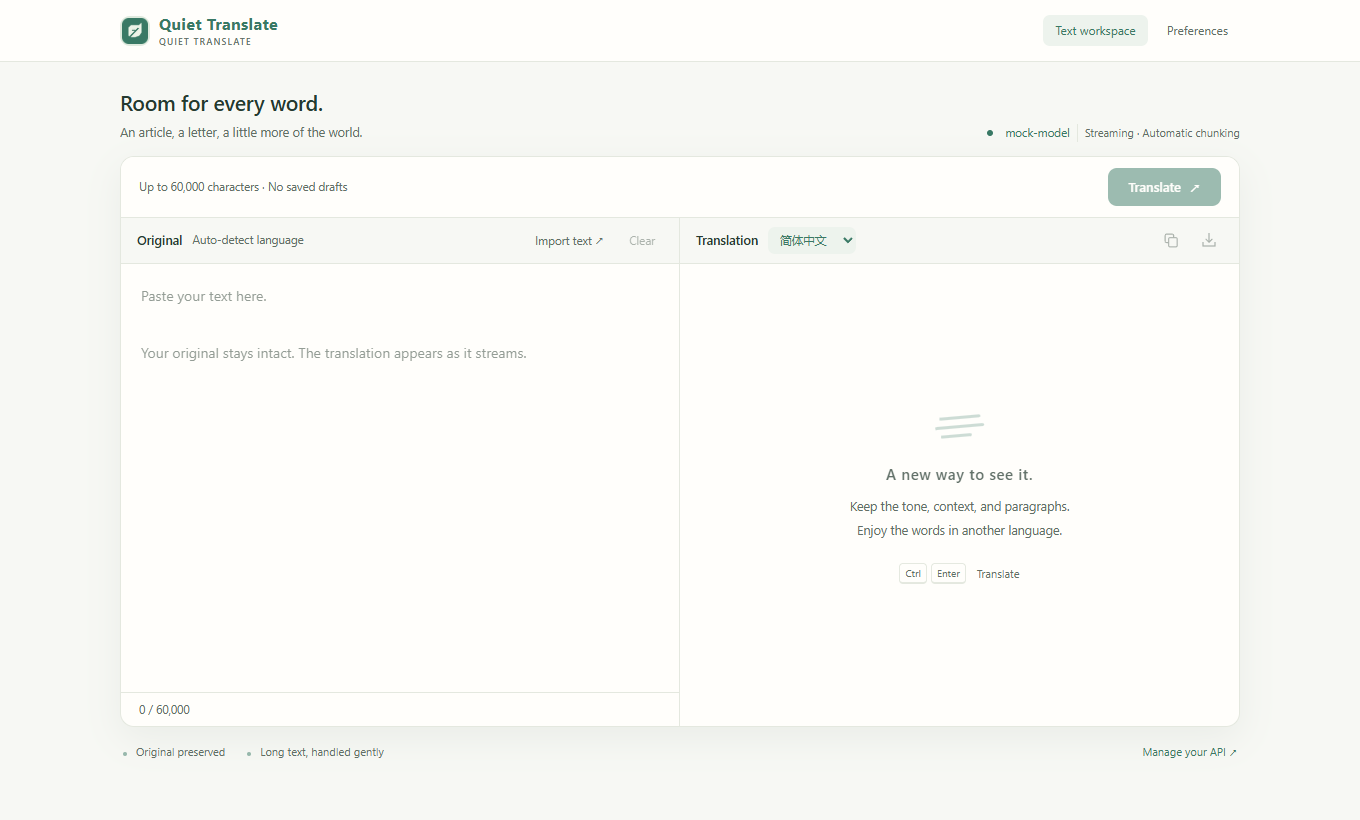
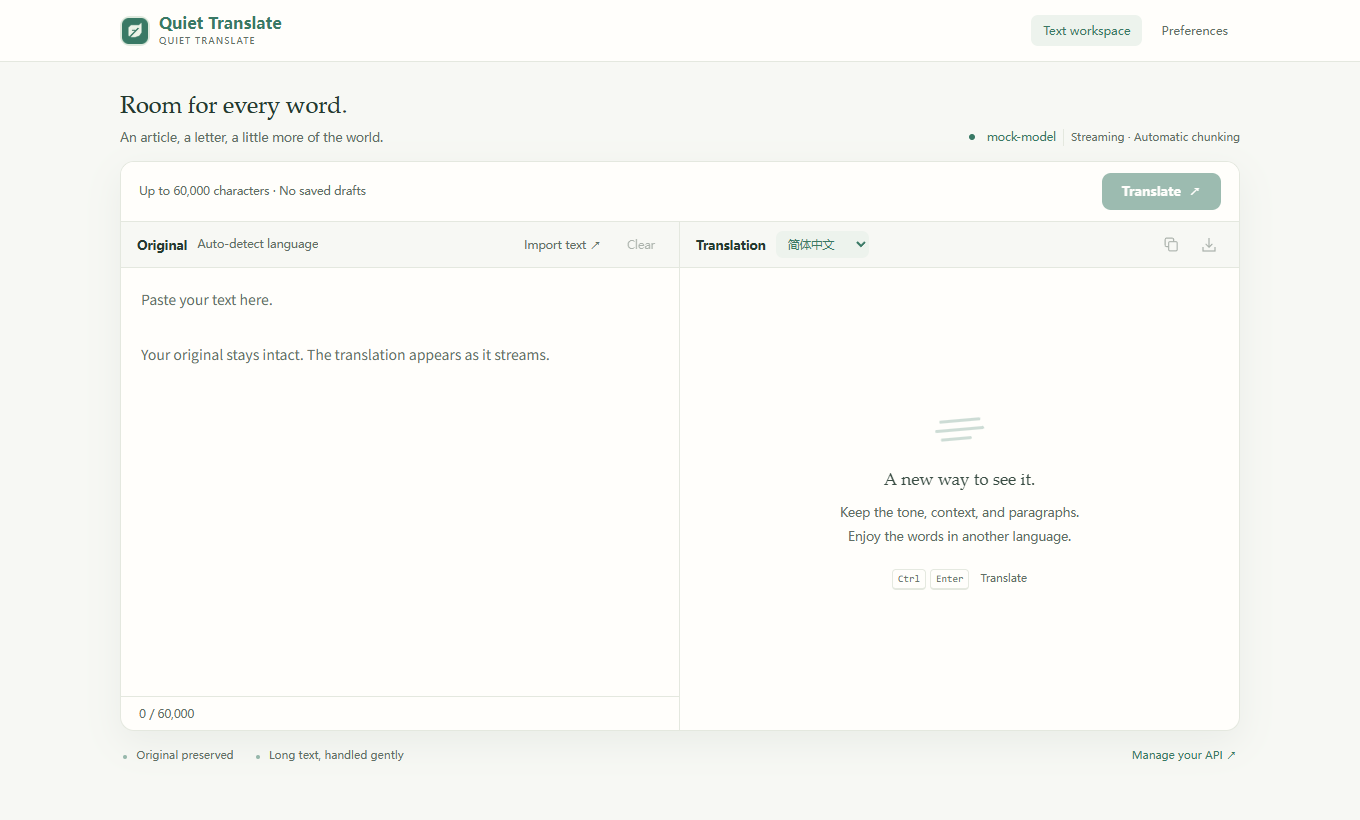
Refine reading typography with Ivory-inspired font roles

diff --git a/extension/app.css b/extension/app.css
@@ -1,5 +1,10 @@
-@font-face{font-family:QuietSystem;src:local("Segoe UI");font-display:swap}
-:root{font-family:QuietSystem,-apple-system,BlinkMacSystemFont,"Microsoft YaHei",sans-serif;font-size:14px;line-height:1.6;color-scheme:light;--r-md:9px;--r-lg:14px;--bg:#f7f8f4;--surface:#fffefb;--ink:#253a30;--muted:#626f66;--line:#e4e8df;--accent:#397965;--accent-hover:#2c6753;--soft:#edf3ed;--soft-strong:#dfeade;--error:#ae6045;--shadow:0 12px 36px #273d2910;color:var(--ink);background:var(--bg)}
+/* Platform fonts only: interface, mixed-script input, reading, and technical values. */
+:root{
+  --font-ui:ui-sans-serif,system-ui,-apple-system,BlinkMacSystemFont,"Segoe UI","PingFang SC","Noto Sans SC","Noto Sans CJK SC","Microsoft YaHei UI","Microsoft YaHei",sans-serif;
+  --font-input:"PingFang SC","Noto Sans SC","Noto Sans CJK SC","Source Han Sans SC","Microsoft YaHei UI","Microsoft YaHei",ui-sans-serif,system-ui,sans-serif;
+  --font-reading:"Iowan Old Style","Palatino Linotype",Palatino,Georgia,"Noto Serif SC","Source Han Serif SC","Songti SC",STSong,"Noto Serif CJK SC",serif;
+  --font-mono:ui-monospace,"SFMono-Regular",Menlo,Consolas,"Liberation Mono",monospace;
+  font-family:var(--font-ui);font-size:14px;line-height:1.6;color-scheme:light;--r-md:9px;--r-lg:14px;--bg:#f7f8f4;--surface:#fffefb;--ink:#253a30;--muted:#626f66;--line:#e4e8df;--accent:#397965;--accent-hover:#2c6753;--soft:#edf3ed;--soft-strong:#dfeade;--error:#ae6045;--shadow:0 12px 36px #273d2910;color:var(--ink);background:var(--bg)}
 @media(prefers-color-scheme:dark){:root:not([data-theme=light]){color-scheme:dark;--bg:#171e19;--surface:#202923;--ink:#e1e9df;--muted:#99a69b;--line:#344238;--accent:#a0ccb0;--accent-hover:#b7dcc5;--soft:#29392e;--soft-strong:#344b3b;--error:#e0a088;--shadow:0 12px 36px #0002}}
 :root[data-theme=dark]{color-scheme:dark;--bg:#171e19;--surface:#202923;--ink:#e1e9df;--muted:#99a69b;--line:#344238;--accent:#a0ccb0;--accent-hover:#b7dcc5;--soft:#29392e;--soft-strong:#344b3b;--error:#e0a088;--shadow:0 12px 36px #0002}
-*{box-sizing:border-box}body{margin:0}button,input,textarea,select{font:inherit}button,a,input,textarea,select{-webkit-tap-highlight-color:transparent}button{cursor:pointer}button:disabled{opacity:.5;cursor:default}button,input,select,textarea{color:var(--ink)}button:focus-visible,a:focus-visible,input:focus-visible,select:focus-visible,textarea:focus-visible,summary:focus-visible{outline:2px solid var(--accent);outline-offset:2px}a{color:var(--accent);text-decoration:none}a:hover{text-decoration:underline}button{display:inline-flex;align-items:center;justify-content:center;gap:8px;transition:background .15s,transform .15s;border:0;border-radius:var(--r-md);background:none;padding:9px 13px;line-height:1.5}button:hover:not(:disabled){background:var(--soft)}button:active:not(:disabled){transform:translateY(1px)}svg{flex-shrink:0}h1,h2,h3,p{margin:0}h1{font-size:26px;line-height:1.4;font-weight:620;letter-spacing:-.4px}h2{font-size:16.5px;font-weight:620}h3{font-size:14px;font-weight:600}.muted{color:var(--muted)}.small{font-size:11.5px}.eyebrow{text-transform:uppercase;letter-spacing:2.4px;font-size:10px;font-weight:600;color:var(--accent)}.spacer{flex:1}.row{display:flex;align-items:center;gap:12px}.brand{display:flex;align-items:center;gap:9px;font-weight:650;font-size:15.5px;letter-spacing:.6px}.logo{width:30px;height:30px;background:var(--soft-strong);border-radius:10px;color:var(--accent);display:grid;place-items:center}.logo img{width:26px;height:26px}.brand .wordmark{display:flex;flex-direction:column;line-height:1.4}.wordmark small{font-size:9px;letter-spacing:1.1px;font-weight:500;color:var(--muted)}.primary{background:var(--accent);color:var(--surface);font-weight:600}.primary:hover:not(:disabled){background:var(--accent-hover)}.outline{border:1px solid var(--line);background:var(--surface)}.icon-button{width:32px;height:32px;padding:6px;color:var(--muted)}.tag{font-size:10px;color:var(--accent);background:var(--soft);padding:4px 8px;border-radius:5px;letter-spacing:.4px;white-space:nowrap}kbd{display:inline-flex;align-items:center;justify-content:center;font:11px/1.4 QuietSystem,sans-serif;color:var(--muted);background:var(--surface);border:1px solid var(--line);border-bottom-width:2px;border-radius:4px;padding:2px 5px;white-space:nowrap}input[type=text],input[type=url],input[type=password],textarea,select{border:1px solid var(--line);border-radius:9px;background:var(--surface);padding:10px 12px;width:100%;min-width:0;transition:border-color .15s}input:focus,textarea:focus,select:focus{border-color:var(--accent)}input::placeholder,textarea::placeholder{color:var(--muted);opacity:.75}input[type=checkbox]{appearance:none;width:32px;height:19px;border-radius:20px;background:var(--line);border:0;position:relative;cursor:pointer;flex-shrink:0;margin:0;transition:background .18s}input[type=checkbox]::after{content:'';position:absolute;top:3px;left:3px;width:13px;height:13px;background:var(--surface);border-radius:50%;box-shadow:0 1px 2px #0002;transition:transform .18s}input[type=checkbox]:checked{background:var(--accent)}input[type=checkbox]:checked::after{transform:translateX(13px)}.switch-row{display:flex;align-items:center;justify-content:space-between;gap:22px;cursor:pointer}.switch-row small{display:block;color:var(--muted);font-size:11.5px;line-height:1.7;margin-top:3px}.field{display:block;margin-top:18px}.field>span{display:block;font-size:12.5px;font-weight:600;margin-bottom:7px}.field>small{display:block;color:var(--muted);font-size:11.5px;line-height:1.7;margin-top:6px}.notice{position:fixed;z-index:100;bottom:24px;left:50%;transform:translateX(-50%);background:var(--ink);color:var(--surface);border:1px solid var(--line);box-shadow:var(--shadow);padding:11px 18px;border-radius:10px;font-size:12px;max-width:calc(100vw - 24px);width:max-content;text-align:center}.notice[data-error=true]{background:var(--error);color:#fff}.status-dot{width:6px;height:6px;border-radius:50%;background:var(--accent);display:inline-block;margin-right:5px}.status-dot.off{background:var(--error)}[hidden]{display:none!important}.sr-only{position:absolute;width:1px;height:1px;padding:0;margin:-1px;overflow:hidden;clip:rect(0,0,0,0);white-space:nowrap;border:0}.page-header{height:62px;border-bottom:1px solid var(--line);background:var(--surface);display:flex;align-items:center;justify-content:space-between;padding:0 max(32px,calc((100vw - 1120px)/2));gap:16px}.nav{display:flex;align-items:center;gap:7px}.nav a{font-size:12px;color:var(--muted);padding:6px 12px;border-radius:7px}.nav a[aria-current=page]{color:var(--accent);background:var(--soft)}.card{background:var(--surface);border:1px solid var(--line);border-radius:var(--r-lg);padding:24px}.card+.card{margin-top:18px}.card-heading{margin-bottom:18px;display:flex;align-items:flex-start;gap:12px}.card-heading p{font-size:12px;color:var(--muted);margin-top:4px}.divider{height:1px;background:var(--line);margin:20px 0}.columns{display:grid;grid-template-columns:1fr 1fr;gap:18px}.footer-note{text-align:center;font-size:11px;color:var(--muted);padding:24px 0 40px}@media(prefers-reduced-motion:reduce){*{animation:none!important;transition:none!important;scroll-behavior:auto!important}}@media(max-width:620px){.page-header{padding:0 16px;height:56px}.columns{grid-template-columns:1fr;gap:0}.nav a{padding:5px 8px;font-size:11.5px}.card{padding:18px}.card+.card{margin-top:14px}.brand{font-size:14px}.divider{margin:16px 0}}
+*{box-sizing:border-box}body{margin:0;font-family:var(--font-ui);font-size:1rem}button,input,textarea,select{font:inherit}button,a,input,textarea,select{-webkit-tap-highlight-color:transparent}button{cursor:pointer}button:disabled{opacity:.5;cursor:default}button,input,select,textarea{color:var(--ink)}button:focus-visible,a:focus-visible,input:focus-visible,select:focus-visible,textarea:focus-visible,summary:focus-visible{outline:2px solid var(--accent);outline-offset:2px}a{color:var(--accent);text-decoration:none}a:hover{text-decoration:underline}button{display:inline-flex;align-items:center;justify-content:center;gap:8px;transition:background .15s,transform .15s;border:0;border-radius:var(--r-md);background:none;padding:9px 13px;line-height:1.5}button:hover:not(:disabled){background:var(--soft)}button:active:not(:disabled){transform:translateY(1px)}svg{flex-shrink:0}h1,h2,h3,p{margin:0}h1{font-size:26px;line-height:1.4;font-weight:600;letter-spacing:-.4px}h2{font-size:16.5px;font-weight:600}h3{font-size:14px;font-weight:600}.muted{color:var(--muted)}.small{font-size:11.5px}.eyebrow{text-transform:uppercase;letter-spacing:2.4px;font-size:10px;font-weight:600;color:var(--accent)}.spacer{flex:1}.row{display:flex;align-items:center;gap:12px}.brand{display:flex;align-items:center;gap:9px;font-weight:600;font-size:15.5px;letter-spacing:.02em}.logo{width:30px;height:30px;background:var(--soft-strong);border-radius:10px;color:var(--accent);display:grid;place-items:center}.logo img{width:26px;height:26px}.brand .wordmark{display:flex;flex-direction:column;line-height:1.4}.wordmark small{font-size:9px;letter-spacing:1.1px;font-weight:500;color:var(--muted)}.primary{background:var(--accent);color:var(--surface);font-weight:600}.primary:hover:not(:disabled){background:var(--accent-hover)}.outline{border:1px solid var(--line);background:var(--surface)}.icon-button{width:32px;height:32px;padding:6px;color:var(--muted)}.tag{font-size:10px;color:var(--accent);background:var(--soft);padding:4px 8px;border-radius:5px;letter-spacing:.4px;white-space:nowrap}kbd{display:inline-flex;align-items:center;justify-content:center;font:11px/1.4 var(--font-mono);color:var(--muted);background:var(--surface);border:1px solid var(--line);border-bottom-width:2px;border-radius:4px;padding:2px 5px;white-space:nowrap}input[type=text],input[type=url],input[type=password],textarea,select{border:1px solid var(--line);border-radius:9px;background:var(--surface);padding:10px 12px;width:100%;min-width:0;transition:border-color .15s}input:focus,textarea:focus,select:focus{border-color:var(--accent)}input::placeholder,textarea::placeholder{color:var(--muted);opacity:1}input[type=checkbox]{appearance:none;width:32px;height:19px;border-radius:20px;background:var(--line);border:0;position:relative;cursor:pointer;flex-shrink:0;margin:0;transition:background .18s}input[type=checkbox]::after{content:'';position:absolute;top:3px;left:3px;width:13px;height:13px;background:var(--surface);border-radius:50%;box-shadow:0 1px 2px #0002;transition:transform .18s}input[type=checkbox]:checked{background:var(--accent)}input[type=checkbox]:checked::after{transform:translateX(13px)}.switch-row{display:flex;align-items:center;justify-content:space-between;gap:22px;cursor:pointer}.switch-row small{display:block;color:var(--muted);font-size:11.5px;line-height:1.7;margin-top:3px}.field{display:block;margin-top:18px}.field>span{display:block;font-size:12.5px;font-weight:600;margin-bottom:7px}.field>small{display:block;color:var(--muted);font-size:11.5px;line-height:1.7;margin-top:6px}.notice{position:fixed;z-index:100;bottom:24px;left:50%;transform:translateX(-50%);background:var(--ink);color:var(--surface);border:1px solid var(--line);box-shadow:var(--shadow);padding:11px 18px;border-radius:10px;font-size:12px;max-width:calc(100vw - 24px);width:max-content;text-align:center}.notice[data-error=true]{background:var(--error);color:#fff}.status-dot{width:6px;height:6px;border-radius:50%;background:var(--accent);display:inline-block;margin-right:5px}.status-dot.off{background:var(--error)}[hidden]{display:none!important}.sr-only{position:absolute;width:1px;height:1px;padding:0;margin:-1px;overflow:hidden;clip:rect(0,0,0,0);white-space:nowrap;border:0}.page-header{height:62px;border-bottom:1px solid var(--line);background:var(--surface);display:flex;align-items:center;justify-content:space-between;padding:0 max(32px,calc((100vw - 1120px)/2));gap:16px}.nav{display:flex;align-items:center;gap:7px}.nav a{font-size:12px;color:var(--muted);padding:6px 12px;border-radius:7px}.nav a[aria-current=page]{color:var(--accent);background:var(--soft)}.card{background:var(--surface);border:1px solid var(--line);border-radius:var(--r-lg);padding:24px}.card+.card{margin-top:18px}.card-heading{margin-bottom:18px;display:flex;align-items:flex-start;gap:12px}.card-heading p{font-size:12px;color:var(--muted);margin-top:4px}.divider{height:1px;background:var(--line);margin:20px 0}.columns{display:grid;grid-template-columns:1fr 1fr;gap:18px}.footer-note{text-align:center;font-size:11px;color:var(--muted);padding:24px 0 40px}@media(prefers-reduced-motion:reduce){*{animation:none!important;transition:none!important;scroll-behavior:auto!important}}@media(max-width:620px){.page-header{padding:0 16px;height:56px}.columns{grid-template-columns:1fr;gap:0}.nav a{padding:5px 8px;font-size:11.5px}.card{padding:18px}.card+.card{margin-top:14px}.brand{font-size:14px}.divider{margin:16px 0}}

diff --git a/extension/content.js b/extension/content.js
@@ -102,18 +102,18 @@
     overlay.style.cssText = 'all:initial!important;position:fixed!important;inset:0 auto auto 0!important;width:0!important;height:0!important;margin:0!important;padding:0!important;border:0!important;overflow:visible!important;z-index:2147483647!important;pointer-events:none!important;color-scheme:light dark!important;';
     shadow = overlay.attachShadow({mode: 'open'});
     shadow.innerHTML = `<style>
-      :host{--q-scheme:light;--q-bg:#fffefb;--q-fg:#26342f;--q-muted:#626f66;--q-line:#e5e9e3;--q-accent:#397965;--q-error:#a45138;--q-soft:#f1f6f1;--q-shadow:0 12px 48px #172f2524,0 2px 8px #172f2512;color-scheme:light;font:14px/1.65 -apple-system,BlinkMacSystemFont,"Segoe UI","Microsoft YaHei",sans-serif;color:var(--q-fg)}
+      :host{--q-ui:ui-sans-serif,system-ui,-apple-system,BlinkMacSystemFont,"Segoe UI","PingFang SC","Noto Sans SC","Noto Sans CJK SC","Microsoft YaHei UI","Microsoft YaHei",sans-serif;--q-reading:"Iowan Old Style","Palatino Linotype",Palatino,Georgia,"Noto Serif SC","Source Han Serif SC","Songti SC",STSong,"Noto Serif CJK SC",serif;--q-scheme:light;--q-bg:#fffefb;--q-fg:#26342f;--q-muted:#626f66;--q-line:#e5e9e3;--q-accent:#397965;--q-error:#a45138;--q-soft:#f1f6f1;--q-shadow:0 12px 48px #172f2524,0 2px 8px #172f2512;color-scheme:light;font:14px/1.65 -apple-system,BlinkMacSystemFont,"Segoe UI","Microsoft YaHei",sans-serif;color:var(--q-fg)}
       @media(prefers-color-scheme:dark){:host{--q-scheme:dark;--q-bg:#202723;--q-fg:#e2e9e3;--q-muted:#9ea9a1;--q-line:#39453c;--q-accent:#9acfb7;--q-error:#e0a088;--q-soft:#2c3830;--q-shadow:0 12px 48px #0006;color-scheme:dark}}
       :host([data-theme=light]){--q-scheme:light;--q-bg:#fffefb;--q-fg:#26342f;--q-muted:#626f66;--q-line:#e5e9e3;--q-accent:#397965;--q-error:#a45138;--q-soft:#f1f6f1;--q-shadow:0 12px 48px #172f2524,0 2px 8px #172f2512;color-scheme:light}
       :host([data-theme=dark]){--q-scheme:dark;--q-bg:#202723;--q-fg:#e2e9e3;--q-muted:#9ea9a1;--q-line:#39453c;--q-accent:#9acfb7;--q-error:#e0a088;--q-soft:#2c3830;--q-shadow:0 12px 48px #0006;color-scheme:dark}
       *{box-sizing:border-box}button,select{font:inherit}button{display:inline-flex;align-items:center;justify-content:center;gap:6px;cursor:pointer;border:0;background:none;color:inherit;padding:6px;border-radius:7px}button:hover{background:var(--q-soft)}button:focus-visible,select:focus-visible{outline:2px solid var(--q-accent);outline-offset:3px}button:disabled{opacity:.5;cursor:default}[hidden]{display:none!important}
       /* The host resets inherited page styles with all:initial!important. Set typography inside the shadow tree. */
-      .panel,.launch,.toast{font:14px/1.65 -apple-system,BlinkMacSystemFont,"Segoe UI","Microsoft YaHei",sans-serif;color:var(--q-fg);color-scheme:var(--q-scheme)}
+      .panel,.launch,.toast{font:14px/1.65 var(--q-ui);color:var(--q-fg);color-scheme:var(--q-scheme)}
       .launch{position:fixed;width:32px;height:32px;border:1px solid var(--q-line);background:var(--q-bg);box-shadow:0 3px 14px #172f2525;color:var(--q-accent);font-size:14px;font-weight:650;border-radius:10px;pointer-events:auto}
       .panel{position:fixed;width:min(392px,calc(100vw - 24px));max-height:min(520px,calc(100vh - 28px));border:1px solid var(--q-line);border-radius:14px;background:var(--q-bg);box-shadow:var(--q-shadow);pointer-events:auto;overflow:hidden;display:flex;flex-direction:column;text-align:left;letter-spacing:normal}
-      header{display:flex;align-items:center;gap:8px;padding:10px 12px;border-bottom:1px solid var(--q-line);flex-shrink:0}.brand{display:flex;align-items:center;gap:7px;font-weight:650;color:var(--q-accent)}.spacer{flex:1;min-width:0}.pin[aria-pressed=true]{color:var(--q-accent);background:var(--q-soft)}select{color:var(--q-muted);font-size:12px;border:0;background:transparent;max-width:105px;padding:3px}
+      header{display:flex;align-items:center;gap:8px;padding:10px 12px;border-bottom:1px solid var(--q-line);flex-shrink:0}.brand{display:flex;align-items:center;gap:7px;font-weight:600;color:var(--q-accent)}.spacer{flex:1;min-width:0}.pin[aria-pressed=true]{color:var(--q-accent);background:var(--q-soft)}select{color:var(--q-muted);font-size:12px;border:0;background:transparent;max-width:105px;padding:3px}
       /* Body owns the scroll so a long translation never pushes the actions out of reach. */
-      .body{padding:14px 16px;overflow:auto;overscroll-behavior:contain;min-height:0;flex:1 1 auto;scrollbar-width:thin}.source{font-size:11.5px;line-height:1.7;color:var(--q-muted);max-height:64px;overflow:auto;white-space:pre-wrap;overflow-wrap:anywhere;padding-bottom:10px;margin-bottom:11px;border-bottom:1px solid var(--q-line)}.translation{white-space:pre-wrap;overflow-wrap:anywhere;font-size:15px;line-height:1.85;user-select:text}.translation[data-loading=true]:empty::before{content:attr(data-loading-label);font-size:13px;color:var(--q-muted)}.translation[data-loading=true]:not(:empty)::after{content:'';display:inline-block;width:4px;height:14px;margin-left:5px;border-radius:2px;background:var(--q-accent);animation:blink 1s infinite}.error{font-size:12.5px;line-height:1.7;color:var(--q-error,#bc6b4f);margin-top:11px}
+      .body{padding:14px 16px;overflow:auto;overscroll-behavior:contain;min-height:0;flex:1 1 auto;scrollbar-width:thin}.source{font-size:12px;line-height:1.7;color:var(--q-muted);max-height:64px;overflow:auto;white-space:pre-wrap;overflow-wrap:anywhere;padding-bottom:10px;margin-bottom:11px;border-bottom:1px solid var(--q-line)}.translation{white-space:pre-wrap;overflow-wrap:anywhere;font-family:var(--q-reading);font-size:16px;line-height:1.9;font-kerning:normal;user-select:text}.translation[data-loading=true]:empty::before{content:attr(data-loading-label);font-size:13px;color:var(--q-muted)}.translation[data-loading=true]:not(:empty)::after{content:'';display:inline-block;width:4px;height:14px;margin-left:5px;border-radius:2px;background:var(--q-accent);animation:blink 1s infinite}.error{font-size:12.5px;line-height:1.7;color:var(--q-error,#bc6b4f);margin-top:11px}
       footer{padding:8px 12px;border-top:1px solid var(--q-line);display:flex;align-items:center;gap:8px;flex-shrink:0;background:var(--q-bg)}.meta{color:var(--q-muted);font-size:11px;min-width:0;overflow:hidden;text-overflow:ellipsis;white-space:nowrap}.text-btn{font-size:12px}.toast{position:fixed;bottom:24px;left:50%;transform:translateX(-50%);padding:10px 17px;border-radius:30px;background:var(--q-bg);color:var(--q-fg);border:1px solid var(--q-line);box-shadow:var(--q-shadow);font-size:13px;max-width:calc(100vw - 30px);pointer-events:auto;white-space:nowrap}
       @keyframes blink{50%{opacity:.2}}@media(prefers-reduced-motion:reduce){*{animation:none!important}}
     </style>

diff --git a/extension/workspace.css b/extension/workspace.css
@@ -1,7 +1,7 @@
 .workspace{max-width:1184px;padding:0 32px;margin:26px auto 0}
 /* Compact title: the editor gets the first screen, not the heading. */
 .workspace-heading{display:flex;align-items:flex-end;justify-content:space-between;gap:20px;margin-bottom:14px}
-.workspace-heading h1{font-size:21px;letter-spacing:-.2px}
+.workspace-heading h1{font-family:var(--font-reading);font-size:24px;font-weight:500;letter-spacing:-.015em}
 .workspace-heading p{color:var(--muted);font-size:12.5px;margin-top:5px}
 .model-label{font-size:11.5px;color:var(--accent);display:flex;align-items:center;gap:7px;text-align:right}
 .model-label small{font-size:11px;color:var(--muted);padding-left:7px;border-left:1px solid var(--line)}
@@ -22,8 +22,8 @@
 .pane-header .small{font-size:11.5px;color:var(--muted);padding:5px 8px}
 .pane-header select{border:0;background:var(--soft);color:var(--accent);font-size:11.5px;padding:5px 8px;border-radius:7px;width:auto;max-width:132px;flex-shrink:1}
 .pane-header .icon-button{width:28px;height:28px;flex-shrink:0}
-#source{font-size:15px;line-height:1.95;flex:1;resize:none;border:0;border-radius:0;padding:18px 20px;background:transparent;outline-offset:-4px;scrollbar-width:thin;min-height:0}
-#source::placeholder{font-size:14px;line-height:2.05;color:var(--muted);opacity:.68}
+#source{font-family:var(--font-input);font-size:15.5px;line-height:1.85;flex:1;resize:none;border:0;border-radius:0;padding:18px 20px;background:transparent;outline-offset:-4px;scrollbar-width:thin;min-height:0}
+#source::placeholder{font-size:14px;line-height:1.95;color:var(--muted);opacity:1}
 .source-bottom{display:flex;align-items:center;padding:0 18px;min-height:34px;border-top:1px solid var(--line);font-size:11.5px;color:var(--muted);flex-shrink:0}
 .target-body{flex:1;overflow:auto;scrollbar-width:thin;padding:18px 20px;min-height:0}
 .empty-state{min-height:100%;display:flex;align-items:center;justify-content:center;flex-direction:column;text-align:center}
@@ -32,12 +32,12 @@
 .empty-mark span:nth-child(1){width:41px;margin-left:5px}
 .empty-mark span:nth-child(2){width:49px}
 .empty-mark span:nth-child(3){width:31px;margin-left:5px}
-.empty-state h2{font-size:15px;font-weight:500;letter-spacing:.6px;color:var(--ink);opacity:.72}
+.empty-state h2{font-family:var(--font-reading);font-size:17px;font-weight:500;letter-spacing:normal;color:var(--ink);opacity:.9}
 .empty-state p{font-size:12.5px;line-height:1.9;color:var(--muted);margin-top:9px}
 .empty-shortcut{display:flex;align-items:center;gap:4px;font-size:11px;color:var(--muted);margin-top:20px}
 .empty-shortcut span{margin-left:7px}
 .empty-shortcut kbd{font-size:10px;background:transparent}
-.translation-result{font-size:15px;line-height:1.95;white-space:pre-wrap;overflow-wrap:anywhere;color:var(--ink)}
+.translation-result{font-family:var(--font-reading);font-size:17px;line-height:1.85;font-kerning:normal;white-space:pre-wrap;overflow-wrap:anywhere;color:var(--ink)}
 .translation-result[data-loading=true]::after{content:'';display:inline-block;width:4px;height:15px;border-radius:2px;background:var(--accent);margin-left:6px;animation:blink 1s infinite}
 .translation-error{font-size:12.5px;color:var(--error);background:var(--soft);border:1px solid var(--line);border-radius:8px;padding:12px;margin-top:14px;white-space:pre-wrap}
 /* The action bar sits above the panes on narrow screens so the primary action stays in the first viewport. */
@@ -53,7 +53,7 @@
 @keyframes blink{50%{opacity:.2}}
 @media(max-width:760px){
   .workspace{margin-top:14px;padding:0 14px}
-  .workspace-heading h1{font-size:18px}
+  .workspace-heading h1{font-size:21px}
   .workspace-heading p{display:none}
   .model-label{display:none}
   .workspace-heading{margin-bottom:10px}
@@ -64,7 +64,7 @@
   .pane-header{padding:6px 13px;min-height:42px}
   .target-body{padding:14px}
   .pane-hint{display:none}
-  .empty-state h2{font-size:14px}
+  .empty-state h2{font-size:15.5px}
   .empty-state p{font-size:12px;margin-top:7px}
   .empty-mark{margin-bottom:12px;height:32px}
   .empty-shortcut{margin-top:14px}

diff --git a/tests/browser-frontend.js b/tests/browser-frontend.js
@@ -104,15 +104,16 @@ async page => {
   await article.locator('qt-overlay .translation[data-loading=false]').waitFor();
   const panelAppearance = () => article.locator('qt-overlay .translation').evaluate(e => {
     const style = getComputedStyle(e), panel = getComputedStyle(e.closest('.panel'));
+    const controls = getComputedStyle(e.closest('.panel').querySelector('header'));
     const luminance = color => {
       const rgb = color.match(/[\d.]+/g).slice(0, 3).map(v => Number(v) / 255).map(v => v <= 0.04045 ? v / 12.92 : ((v + 0.055) / 1.055) ** 2.4);
       return rgb[0] * 0.2126 + rgb[1] * 0.7152 + rgb[2] * 0.0722;
     };
     const fg = luminance(style.color), bg = luminance(panel.backgroundColor);
-    return {contrast: (Math.max(fg, bg) + 0.05) / (Math.min(fg, bg) + 0.05), sansSerif: style.fontFamily.includes('sans-serif')};
+    return {contrast: (Math.max(fg, bg) + 0.05) / (Math.min(fg, bg) + 0.05), sansSerif: controls.fontFamily.includes('sans-serif'), readingFace: style.fontFamily !== controls.fontFamily && /(?:^|,\s*)serif$/.test(style.fontFamily)};
   });
   const light = await panelAppearance();
-  check(light.contrast >= 4.5 && light.sansSerif, 'Light selection text remains readable and keeps its own font after host isolation');
+  check(light.contrast >= 4.5 && light.sansSerif && light.readingFace, 'Light selection keeps readable text and distinct control/reading fonts after host isolation');
   const first = await panel.boundingBox();
   await article.evaluate(() => scrollBy(0, 60)); await article.waitForTimeout(120);
   const moved = await panel.boundingBox();
@@ -138,7 +139,7 @@ async page => {
   await worker.evaluate(id => { chrome.tabs.sendMessage(id, {type: 'qt-selection', text: 'A dark reading surface still needs readable text.'}); }, tabId);
   await article.locator('qt-overlay .translation[data-loading=false]').waitFor();
   const dark = await panelAppearance();
-  check(dark.contrast >= 4.5 && dark.sansSerif, 'Dark selection text has at least 4.5:1 contrast after host isolation');
+  check(dark.contrast >= 4.5 && dark.sansSerif && dark.readingFace, 'Dark selection keeps readable text and distinct control/reading fonts after host isolation');
   await article.screenshot({path: output + '/selection-dark.png'});
   await article.keyboard.press('Escape');
   await worker.evaluate(id => { chrome.tabs.sendMessage(id, {type: 'qt-selection', text: 'TEST_401 this deliberately fails.'}); }, tabId);

diff --git a/extension/options.css b/extension/options.css
@@ -1,7 +1,7 @@
 html{scroll-padding-bottom:110px}
 .settings-layout{max-width:1040px;margin:34px auto 0;padding:0 24px;display:grid;grid-template-columns:224px minmax(0,1fr);gap:52px}
 .settings-layout>aside{position:sticky;top:28px;align-self:start}
-.settings-layout h1{margin-top:14px;font-size:27px;line-height:1.45}
+.settings-layout h1{font-family:var(--font-reading);margin-top:14px;font-size:27px;font-weight:500;line-height:1.5;letter-spacing:normal}
 .aside-description{color:var(--muted);font-size:12.5px;line-height:2;margin-top:14px}
 .section-nav{margin-top:26px;display:flex;flex-direction:column;gap:2px}
 .section-nav a{display:flex;justify-content:space-between;gap:10px;padding:9px 10px;font-size:12.5px;color:var(--muted);border-radius:8px}
@@ -29,12 +29,13 @@ html{scroll-padding-bottom:110px}
 .soft-sample{background:var(--soft-strong);border-radius:3px}
 .reading-preview{margin-top:20px;padding:20px;border-radius:9px;background:var(--bg);font-size:14px;line-height:1.9}
 .preview-label{font-size:10px;letter-spacing:1.8px;color:var(--muted);display:block;margin-bottom:12px}
-.reading-preview>p{font-family:Georgia,"Times New Roman",serif}
+.reading-preview>p,.preview-translation{font-family:var(--font-reading)}
 .preview-translation{color:var(--accent);margin-top:11px;font-size:14px}
 .preview-translation[data-style=line]{border-left:2px solid var(--accent);padding-left:11px}
 .preview-translation[data-style=soft]{background:var(--soft-strong);padding:8px 11px;border-radius:5px}
 input[type=range]{accent-color:var(--accent);width:100%;margin:11px 0 0}
 output{float:right;color:var(--muted);font-weight:400}
+.field input:is([name=endpoint],[name=model],[name=apiKey]){font-family:var(--font-mono);font-size:12.5px}
 .advanced{margin-top:22px;color:var(--muted);font-size:12.5px}
 .advanced summary{cursor:pointer;width:fit-content;padding:4px 0;border-radius:6px}
 .connection-actions{display:flex;flex-wrap:wrap;align-items:center;gap:12px;margin-top:20px}

diff --git a/docs/FRONTEND-QA.md b/docs/FRONTEND-QA.md
@@ -17,6 +17,33 @@
 4. The overlay host's `all: initial !important` reset defeated host-level font and text-color rules. Typography, foreground color, and color scheme now apply inside the shadow tree. Regression checks require readable text contrast in both themes and an independent UI font.
 5. One-off capture scripts depended on a local drive and ignored helper files. They remain local evidence; maintainable state and layout checks run in the existing Chromium suite instead. Concurrent runs receive unique profile/output directories.
 
+## Typography refinement
+
+The font roles in [DSH Ivory's stylesheet](https://github.com/ZJUZhiyuCai/dsh-ivory/blob/e9b36c8db54bed72852847cf56dcf22f0943ce26/src/skin.css#L33) informed this pass. Interface controls use a system sans-serif; mixed Chinese/English input starts with CJK-capable sans-serif faces; workspace and selection translations use a serif reading stack; connection values and shortcut keys use monospace. Inline bilingual translations continue to inherit the original website's font.
+
+| Surface | Treatment |
+|---|---|
+| Controls and navigation | System sans-serif, with Chinese fallbacks |
+| Source editor | CJK-first sans-serif, 15.5 px / 1.85 |
+| Workspace translation | Serif, 17 px / 1.85 |
+| Selection translation | Serif, 16 px / 1.9 |
+| Connection fields | Monospace, 12.5 px |
+
+On this Windows machine, Comet reported Palatino Linotype for Latin and Noto Serif SC for Chinese result glyphs, plus Microsoft YaHei UI for Chinese controls. The editor's computed stack was verified, but its native textarea did not expose glyph-level font data. Actual faces depend on installed platform fonts. No fonts are bundled, downloaded, or requested remotely; the fixed workspace specimen made no HTTP(S) requests.
+
+Comet's injected extension stylesheet sets a body font and 75% font size, overriding declarations inherited from the root. An explicit body font and `1rem` size now establish the intended interface typography. Desktop, 430 px, 360 px, light/dark, settings, popup, and selection screenshots were reviewed; the four workspace specimen layouts had no horizontal overflow. Browser checks in the table below were rerun after this refinement.
+
+The same fixed, authored text appears in these before/after specimens. They illustrate typography, not API output or measured translation speed.
+
+<details>
+<summary>Before: previous frontend revision</summary>
+
+![Previous workspace typography](assets/typography-before.png)
+
+</details>
+
+![Refined workspace typography](assets/typography-after.png)
+
 ## Verification
 
 - `npm run check`: 31 extension files pass syntax, CSP, manifest-resource, and public-bootstrap checks.
@@ -34,7 +61,7 @@
 
 ## Live API sample
 
-The reviewed layout was additionally exercised in an isolated Comet profile using `glm-5.3-flash`, with cache disabled, on these public pages:
+Before the typography refinement above, the reviewed layout was additionally exercised in an isolated Comet profile using `glm-5.3-flash`, with cache disabled, on these public pages:
 
 - [MDN: Intersection Observer API](https://developer.mozilla.org/en-US/docs/Web/API/Intersection_Observer_API)
 - [Wikipedia: Reading](https://en.wikipedia.org/wiki/Reading)
@@ -48,7 +75,7 @@ The reviewed layout was additionally exercised in an isolated Comet profile usin
 | Wikipedia 2 | 243 | 1.545 s | 2.017 s |
 | Paul Graham | 658 | 1.139 s | 3.507 s |
 
-The five first-text samples have a median of 1.344 s. The next animation frame after opening the card was observed in 4–51 ms; this is an approximate UI paint opportunity, not a precise display-latency measurement. Network/model times are samples, not guarantees or a controlled before/after comparison. This final sample includes the overlay font/contrast correction.
+The five first-text samples have a median of 1.344 s. The next animation frame after opening the card was observed in 4–51 ms; this is an approximate UI paint opportunity, not a precise display-latency measurement. Network/model times are samples, not guarantees or a controlled before/after comparison. This sample includes the shadow-isolation font/contrast correction, but predates the serif reading stack. Typography refinement did not change translation or streaming logic; no new live API speed measurement is claimed for it.
 
 The 7,167-character MDN workspace sample produced its first text in 3.284 s and completed in 11.073 s. All 18 numbered passages remained in order, the source was unchanged, and none of 152 observed updates rewrote an already visible prefix. The completed workspace also fit at 430 px.
 

diff --git a/CHANGELOG.md b/CHANGELOG.md
@@ -2,6 +2,7 @@
 
 ## Unreleased
 
+- Ivory-inspired typography separates system UI, CJK-first input, serif reading, and monospace connection values. Explicit body fonts prevent Chromium extension styles from shrinking the interface; all fonts remain local and inline page translations keep the site's typeface.
 - Compact popup and text workspace, with pane-local toolbars, visible primary actions on narrow screens, and a persistent API setup entry.
 - Preferences start with the API connection, use matching section navigation, and keep keyboard-focused fields above the save bar. Saving preferences and testing a saved connection have independent feedback; removing a key preserves other unsaved fields and invalidates pending tests.
 - Selection cards stay within the viewport while streaming long results, follow their live text selection on page scroll, and remain still when pinned or scrolled internally.
